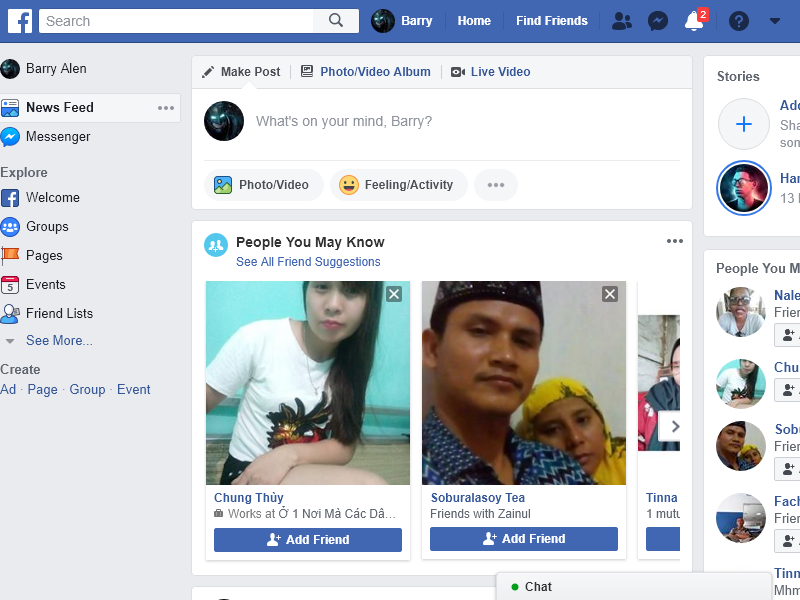
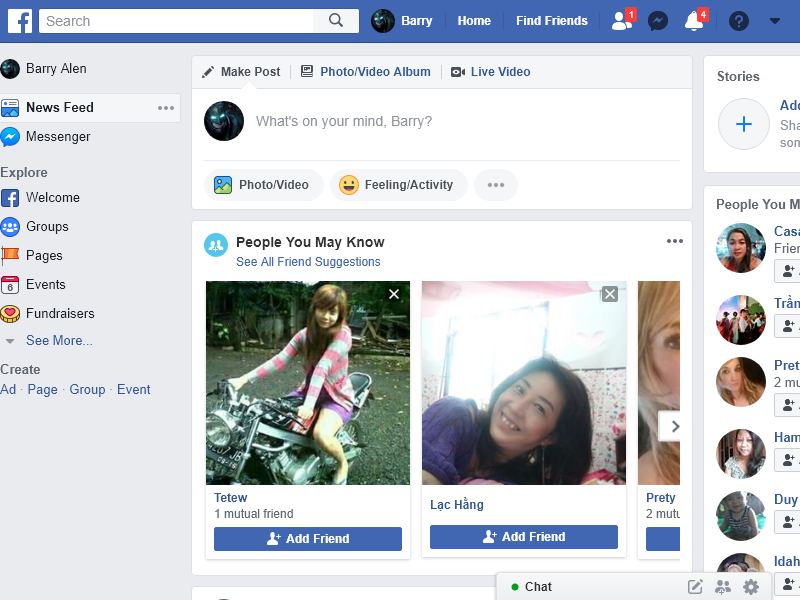
Finished Login Facebook

Changed region(s): [[0.25, 0.27, 1.0, 1.0], [0.75, 0.0, 0.8125, 0.06], [0.0, 0.51, 0.125, 0.54]]

diff --git a/app/index.js b/app/index.js
@@ -32,13 +32,39 @@ const getCookiesFile = async () => {
     })
 }
 
+const getCookie = async (page) => {
+    const cookiesAcc = await page.cookies('https://facebook.com');
+    await fs.writeFile('app/cookies.txt', JSON.stringify(cookiesAcc), (err) => { });
+}
+
+const isLoginFB = async (page) => {
+    const response = await page.goto('https://facebook.com/settings');
+    const chain = response.request().redirectChain();
+
+    for (let i = 0, length = chain.length; i < length; i++) {
+        const item = chain[i];
+        const currentUrl = item.frame().url();
+        if (currentUrl.indexOf('/login.php') !== -1) return false;
+    }
+
+    return true;
+}
+
 const loginFacebook = async (page) => {
     const cookies = await getCookiesFile();
     if (!!cookies) {
         const arrCookies = JSON.parse(cookies);
-        loginCookie(page, arrCookies);
+        await loginCookie(page, arrCookies);
+    }
+
+    const isLogin = await isLoginFB(page);
+
+    if (!isLogin) {
+        await page.goto('https://facebook.com');
+        await loginAcc(page);
+        await getCookie(page);
     } else {
-        loginAcc(page);
+        await page.goto('https://facebook.com');
     }
 }
 
@@ -46,17 +72,13 @@ const loginFacebook = async (page) => {
 (async () => {
     const browser = await puppeteer.launch();
     const page = await browser.newPage();
-    await page.goto('https://facebook.com');
 
+    await loginFacebook(page);
 
-    await page.goto('https://facebook.com');
-
-    const cookiesAcc = await page.cookies('https://facebook.com');
-
-    const stories = await page.evaluate(() => {
-        const profilePosts = Array.from(document.querySelectorAll(`.userContentWrapper span[data-ft='{"tn":"k"}'] a`));
-        return profilePosts.dataset;
-    })
+    // const stories = await page.evaluate(() => {
+    //     const profilePosts = Array.from(document.querySelectorAll(`.userContentWrapper span[data-ft='{"tn":"k"}'] a`));
+    //     return profilePosts.dataset;
+    // })
 
     await page.screenshot({
         path: screenshot,
@@ -65,6 +87,5 @@ const loginFacebook = async (page) => {
 
     await browser.close();
 
-    await console.log(JSON.stringify(stories));
-    // await fs.writeFile('app/cookies.txt', JSON.stringify(cookiesAcc), (err) => {});
+    // await console.log(JSON.stringify(stories));
 })();
